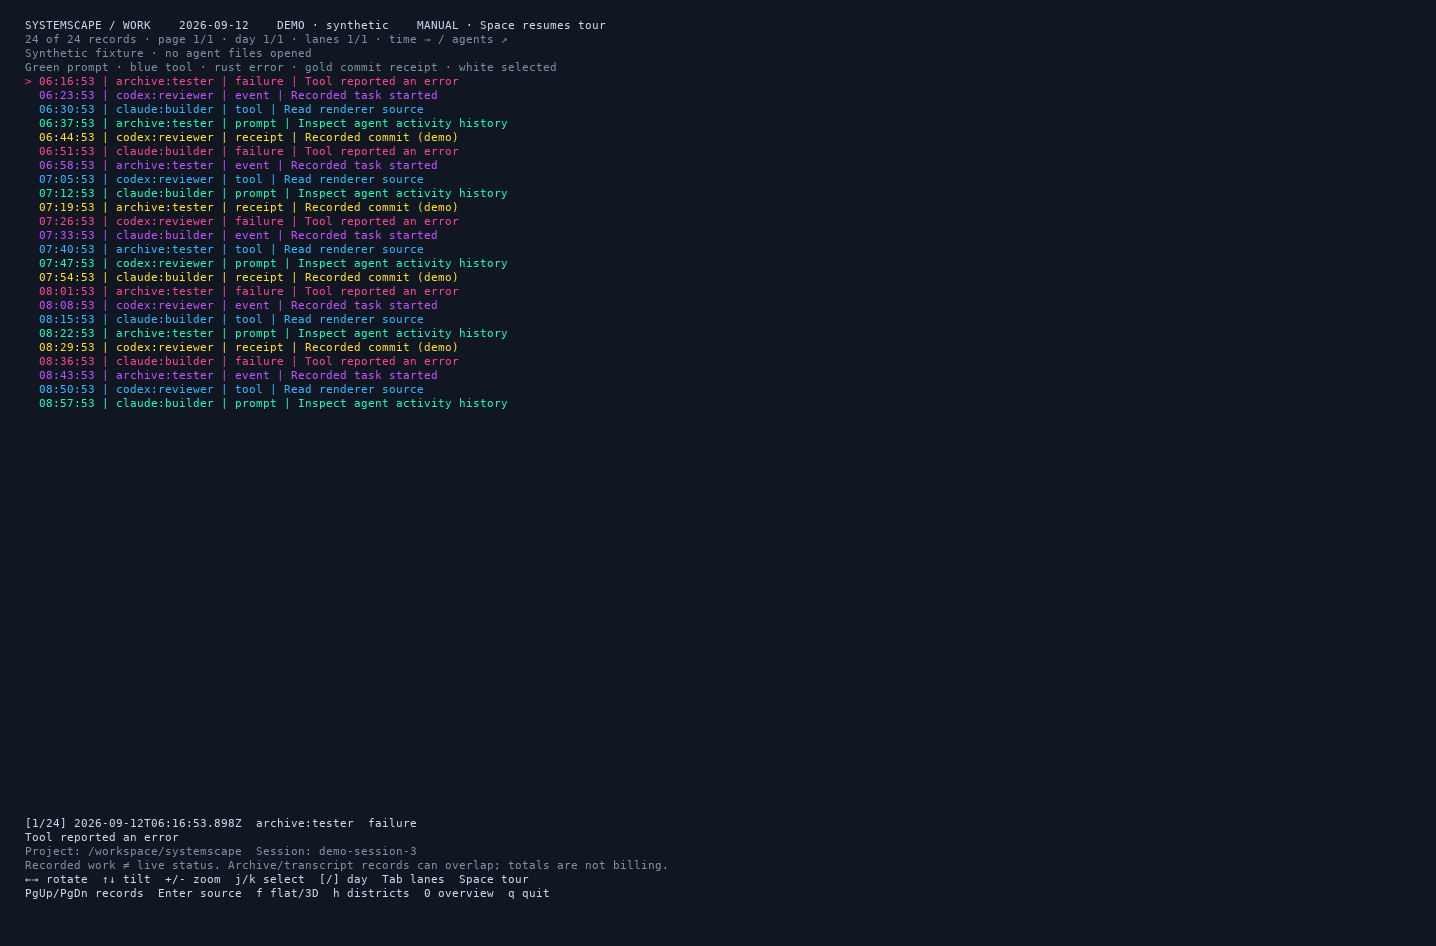
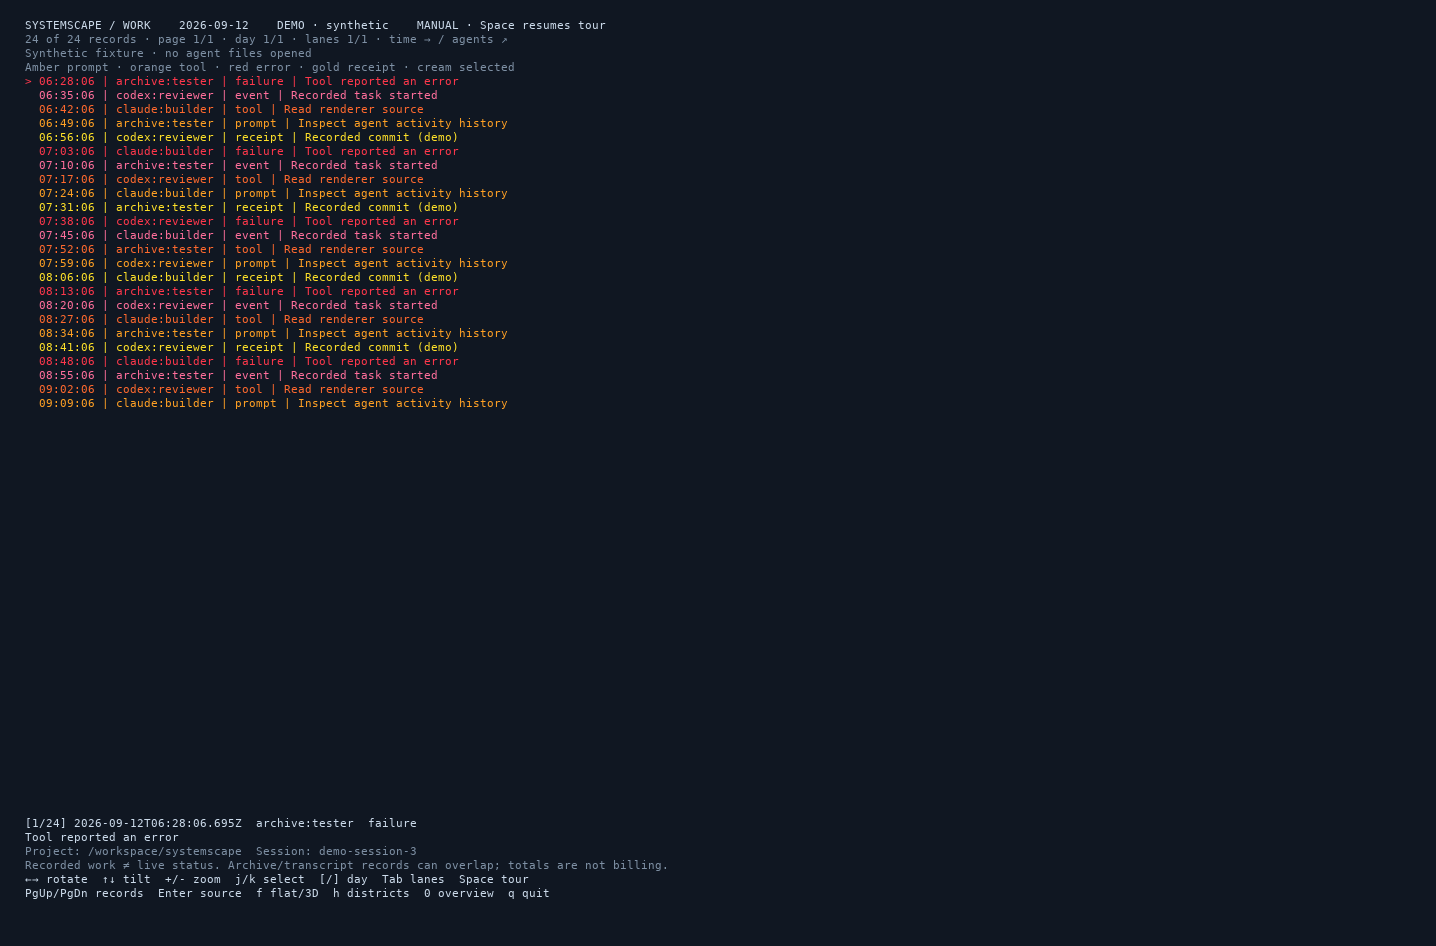
Separate warm data colours from muted pastel landscapes

Changed region(s): [[0.0306, 0.0613, 0.3677, 0.4292]]

diff --git a/src/activity.rs b/src/activity.rs
@@ -170,11 +170,11 @@ fn dolly(state: &mut State, factor: f64) {
 
 fn colour(kind: &str) -> Colour {
     match kind {
-        "prompt" => Colour::rgb(20, 255, 190),
-        "failure" => Colour::rgb(255, 65, 150),
+        "prompt" => Colour::rgb(255, 160, 35),
+        "failure" => Colour::rgb(255, 55, 75),
         "receipt" => Colour::rgb(255, 225, 40),
-        "tool" => Colour::rgb(45, 185, 255),
-        _ => Colour::rgb(195, 80, 255),
+        "tool" => Colour::rgb(255, 105, 45),
+        _ => Colour::rgb(255, 110, 155),
     }
 }
 
@@ -225,21 +225,20 @@ pub(crate) fn terrain(lanes: usize) -> Mesh3D {
             };
             let district = ((z / depth + 1.0) * 2.5) as usize;
             let palettes = [
-                (8, 245, 225),
-                (185, 25, 255),
-                (18, 255, 92),
-                (255, 152, 12),
-                (35, 105, 255),
-                (255, 28, 145),
+                (145, 180, 174),
+                (173, 158, 191),
+                (153, 180, 153),
+                (188, 178, 153),
+                (148, 168, 193),
+                (188, 159, 176),
             ];
             let (r, g, b) = if coast {
-                (24, 155, 255)
+                (143, 171, 190)
             } else {
                 palettes[district.min(5)]
             };
-            // Wide luminance range supplies shaded valleys and emissive ridges,
-            // using full RGB rather than washing every glyph towards white.
-            let shade = 0.26 + 0.74 * (noise as f64 / 10.0).powf(0.7);
+            // Muted pastel relief stays behind the vivid warm data objects.
+            let shade = 0.40 + 0.38 * (noise as f64 / 10.0).powf(0.7);
             let colour = Colour::rgb(
                 (r as f64 * shade) as u8,
                 (g as f64 * shade) as u8,
@@ -284,7 +283,7 @@ fn position(data: &Slice<'_>, index: usize) -> Vec3D {
 
 fn scene(data: &Slice<'_>, selected: usize) -> Mesh3D {
     let mut mesh = terrain(data.lanes.len());
-    let rail = Colour::rgb(48, 125, 148);
+    let rail = Colour::rgb(110, 137, 145);
     for (i, _) in data.lanes.iter().enumerate() {
         let z = lane_z(i, data.lanes.len());
         let f = mesh.faces.len();
@@ -294,12 +293,28 @@ fn scene(data: &Slice<'_>, selected: usize) -> Mesh3D {
         // make camera motion legible even where recorded actions are sparse.
         for x in [-9.5, 9.5] {
             let f = mesh.faces.len();
-            push_bar(&mut mesh, x, z - 0.8, 0.10, 0.10, 6.0, colour("tool"));
-            push_bar(&mut mesh, x, z + 0.8, 0.10, 0.10, 6.0, colour("event"));
+            push_bar(
+                &mut mesh,
+                x,
+                z - 0.8,
+                0.10,
+                0.10,
+                6.0,
+                Colour::rgb(133, 155, 168),
+            );
+            push_bar(
+                &mut mesh,
+                x,
+                z + 0.8,
+                0.10,
+                0.10,
+                6.0,
+                Colour::rgb(153, 138, 166),
+            );
             texture(&mut mesh, f, '#');
             let v = mesh.vertices.len();
             let f = mesh.faces.len();
-            push_bar(&mut mesh, x, z, 0.10, 0.9, 0.22, colour("prompt"));
+            push_bar(&mut mesh, x, z, 0.10, 0.9, 0.22, Colour::rgb(139, 163, 148));
             for vertex in &mut mesh.vertices[v..] {
                 vertex.y += 6.0;
             }
@@ -329,7 +344,7 @@ fn scene(data: &Slice<'_>, selected: usize) -> Mesh3D {
         }
         let y = if e.kind == "prompt" { 5.5 } else { 2.8 };
         let col = if i == selected {
-            Colour::rgb(255, 255, 255)
+            Colour::rgb(255, 244, 185)
         } else {
             colour(&e.kind)
         };
@@ -777,7 +792,7 @@ fn render(
         &mut view,
         1,
         3,
-        "Green prompt · blue tool · rust error · gold commit receipt · white selected",
+        "Amber prompt · orange tool · red error · gold receipt · cream selected",
         muted,
     );
     // Clear footer cells after 3D projection so text remains readable at all angles.

diff --git a/src/main.rs b/src/main.rs
@@ -83,10 +83,10 @@ fn gradient(stops: &[(f64, (u8, u8, u8))], n: f64) -> Colour {
 
 #[derive(Clone, Copy)]
 enum Scale {
-    Thermal,    // blue → green → yellow → red
-    Power,      // deep purple → pink
-    Load,       // teal → cyan → white
-    Throughput, // indigo → cyan → white
+    Thermal,    // amber → orange → red
+    Power,      // coral → hot pink
+    Load,       // gold → orange → red
+    Throughput, // peach → coral → pink
 }
 
 impl Scale {
@@ -94,28 +94,26 @@ impl Scale {
         match self {
             Self::Thermal => gradient(
                 &[
-                    (0.00, (30, 90, 255)),
-                    (0.30, (10, 255, 100)),
-                    (0.55, (255, 210, 5)),
-                    (0.78, (255, 90, 5)),
-                    (1.00, (255, 25, 70)),
+                    (0.0, (255, 205, 65)),
+                    (0.5, (255, 130, 30)),
+                    (1.0, (255, 45, 55)),
                 ],
                 n,
             ),
-            Self::Power => gradient(&[(0.0, (100, 15, 220)), (1.0, (255, 35, 180))], n),
+            Self::Power => gradient(&[(0.0, (255, 150, 105)), (1.0, (255, 50, 140))], n),
             Self::Load => gradient(
                 &[
-                    (0.0, (5, 155, 105)),
-                    (0.6, (10, 255, 245)),
-                    (1.0, (240, 253, 250)),
+                    (0.0, (255, 225, 70)),
+                    (0.6, (255, 145, 25)),
+                    (1.0, (255, 65, 40)),
                 ],
                 n,
             ),
             Self::Throughput => gradient(
                 &[
-                    (0.0, (49, 46, 129)),
-                    (0.55, (6, 182, 212)),
-                    (1.0, (240, 249, 255)),
+                    (0.0, (255, 185, 120)),
+                    (0.55, (255, 110, 85)),
+                    (1.0, (255, 70, 130)),
                 ],
                 n,
             ),
@@ -560,7 +558,7 @@ fn black_panel(width: usize, height: usize, lines: &[String]) -> String {
     }
     let y = height - lines.len() - 2;
     let mut out = format!(
-        "\x1b[{y};3H\x1b[48;2;0;0;0m\x1b[38;2;90;230;255m+{}+",
+        "\x1b[{y};3H\x1b[48;2;0;0;0m\x1b[38;2;255;205;100m+{}+",
         "-".repeat(w - 2)
     );
     for (i, line) in lines.iter().enumerate() {

diff --git a/README.md b/README.md
@@ -47,15 +47,16 @@ The view groups records by UTC day, then lays agents out in depth over a
 procedural island. Its glyph textures, coastline and relief provide a spatial
 frame; they do not encode work metrics. Prompt stems
 are taller than tool stems; height denotes record type, not cost or productivity.
-Green marks prompts, blue tools, rust errors and gold recorded commit receipts.
+Amber marks prompts, orange tools, red errors and gold recorded commit receipts;
+the selected record is cream.
 The default tour flies smoothly through a landscape six times wider and deeper
 than the original view. It completes a circuit in roughly fifty-two seconds,
 with a changing altitude of 30–46 world units and a moderately downward forward-looking camera.
-Tall neon gateways, information towers and varied glyph textures provide motion
+Tall pastel gateways, information towers and varied glyph textures provide motion
 and depth cues. Record selection advances every four seconds across pages,
 agent districts and days. Nearby objects carry floating labels; the selected action has a descriptive black panel.
-Telemetry uses the same textured neon terrain, flight path and opaque readings panel.
-Both views use 24-bit RGB shading with dark valleys and saturated highlights. Navigation
+Telemetry uses the same textured pastel terrain, flight path and opaque readings panel.
+Both views use 24-bit RGB shading with muted pastel terrain and vivid warm data highlights. Navigation
 keys pause the tour; Space resumes it. Select a record to inspect its project,
 session and source file. Lines describe
 temporal grouping within sessions, not proven causal dependencies or git ancestry.
@@ -136,8 +137,8 @@ Missing sources degrade gracefully — a wall simply doesn't appear.
 - **Peak-hold downsampling**: sensors are polled every 2 s and each bar
   commits the *maximum* seen in its 150 s slot, so short spikes survive
   decimation — the whole point of a correlation display.
-- **Colour = value**: thermals run blue→green→yellow→red, power runs
-  purple→pink, load/memory teal→white, throughput indigo→cyan→white,
+- **Colour = value**: thermals run amber→orange→red, power runs
+  coral→pink, load/memory gold→orange→red, throughput peach→coral→pink,
   all as 24-bit ANSI colour.
 - **Live resize**: the canvas follows the terminal size every frame.
 - **Render rate**: telemetry targets 18 FPS; CPU usage depends on pane size and sensor tools.
